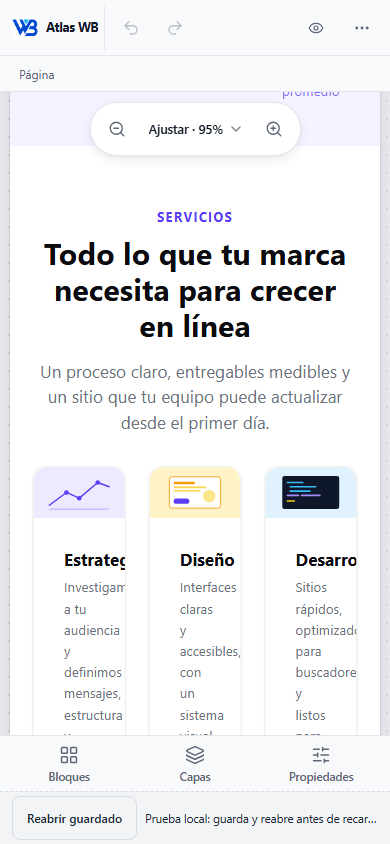
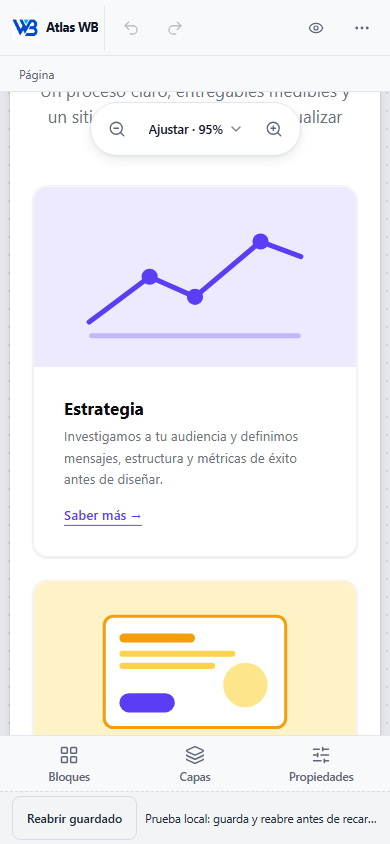
docs(release): record final 0.5.0 artifact after the columns correction
- New artifact 05874a77 from a9c927a with npm integrity, build and CSS
  hashes, fresh React 18/19 consumer verification and packaged browser
  results (including the ColumnsBlock matrix).
- Correction section: defect, container-query solution, section width
  fix, intentional markup change, tests and the documented limit.
- Updated playground mobile captures (390 light/dark, 320, preview).

diff --git a/docs/releases/ATLAS_0_5_0_RELEASE.md b/docs/releases/ATLAS_0_5_0_RELEASE.md
@@ -1,8 +1,8 @@
 # Atlas Web Builder 0.5.0 — preparación del release
 
-Fecha: 2026-11-13, actualizado tras la Fase 1.2. **APTO PARA REVISIÓN ESTÉTICA FINAL DE ATLAS 0.5.0**; después siguen pendientes las pruebas físicas y la autorización.
+Fecha: 2026-11-13, actualizado tras la corrección final de columnas. **APTO PARA COMENZAR LAS PRUEBAS FÍSICAS Y PARA AUTORIZAR LA PUBLICACIÓN** cuando esas pruebas se aprueben.
 
-> **Artefacto reemplazado.** El tarball anterior (SHA-256 `a23227ab…62201`, fuentes `b71383e`) quedó obsoleto con el rediseño de la [Fase 1.2](ATLAS_PHASE_1_UI_UX.md#fase-12--rediseño-visual-con-lucide-y-radix). Se movió a `.artifacts/releases/0.5.0/superseded-a23227ab/` y **no debe publicarse**. Su integridad no se reutiliza: los datos de abajo corresponden al artefacto nuevo.
+> **Artefactos reemplazados.** Los tarballs anteriores `a23227ab…` (fuentes `b71383e`) y `09303a7c…` (fuentes `869fca3`, Fase 1.2, sin la corrección de columnas) quedaron obsoletos y **no deben publicarse**. El primero quedó obsoleto con el rediseño de la [Fase 1.2](ATLAS_PHASE_1_UI_UX.md#fase-12--rediseño-visual-con-lucide-y-radix) y se conserva en `.artifacts/releases/0.5.0/superseded-a23227ab/`. El segundo fue reemplazado en el mismo nombre de archivo por el empaquetado final. No se reutiliza la integridad de ninguno: los datos de abajo corresponden al artefacto vigente.
 
 No implica autorización de publicación. Las pruebas físicas de Safari/iPhone y Chrome/Android siguen pendientes. No se ejecutaron `npm publish`, cambios de dist-tags, creación del tag v0.5.0 ni despliegues.
 
@@ -11,14 +11,14 @@ No implica autorización de publicación. Las pruebas físicas de Safari/iPhone 
 | Dato | Valor |
 | --- | --- |
 | Base de la Fase 1.2 | `797dee25eda293e9acf6ca53bd36c5753c0c9c06` |
-| Commit de fuentes del artefacto | `869fca38d7ca0da83837307d6652270a08f47325` |
+| Commit de fuentes del artefacto | `a9c927a45b383b7dda917de1b00328aab35c90f5` |
 | Rama | `main`, sin ramas ni worktrees nuevos |
 | Versión preparada | `@raulbellosom/atlas-web-builder@0.5.0` |
 | Tarball local | `.artifacts/releases/0.5.0/raulbellosom-atlas-web-builder-0.5.0.tgz` |
[1 lines of base64/hex data omitted]
-| npm shasum (SHA-1) | `eacb8ee4b8179c053b8cacdf74b880a5a44081af` |
-| npm integrity | `sha512-j58foNru2d8E1fN8NFkLIwffxFoVimQ4fsfrcDz2x/YqFztSzq1YjVIcyEL2v+1WgJFsGy0MUHd+F+S5/F1jxA==` |
-| Tamaño | 618581 bytes comprimidos, 2361988 bytes descomprimidos |
[1 lines of base64/hex data omitted]
+| npm shasum (SHA-1) | `22014ab9e65b9358d5c9ce57749fb46bd165d158` |
+| npm integrity | `sha512-wkwLOc5VWgrUKidY4TUtuHk+C+MtziCWSXTzsKHezmLAvzEIDx9+yk2eyEp8oypZ5dHyoubuqBd+H1egQqmDsQ==` |
+| Tamaño | 620001 bytes comprimidos, 2366509 bytes descomprimidos |
 
 El commit documental que contiene este informe sólo agrega informe y evidencia; no altera los archivos del paquete verificado. El tarball permanece local e ignorado por Git. Publicar ese archivo exacto después de autorizar, sin volver a empaquetar silenciosamente. Si se pierde, reproducirlo y comparar hashes antes de considerarlo aprobado.
 
@@ -52,7 +52,7 @@ Exports del manifiesto: import ESM, require CJS, `/styles` y `/package.json`. Se
 
 El renderer SSR produjo HTML idéntico byte a byte al de 0.4.0 para el fixture de compatibilidad. La reapertura conservó JSON, SEO, efectos y propiedades históricas desconocidas. Se fija el reloj únicamente en esa comparación porque ambos serializadores estampan `updatedAt`. No hay migración nueva de schema, catálogo o contrato de guardado.
 
[2 lines of base64/hex data omitted]
 
 Evidencia: [manifiesto npm pack](evidence/0.5.0/pack.json), [verificación y hashes por archivo](evidence/0.5.0/package-verification.json).
 
@@ -70,6 +70,7 @@ Para el artefacto nuevo se crearon otras dos aplicaciones privadas temporales fu
 | Editor empaquetado en Chromium y WebKit, React 18.3.1 | 1440, 1024, 768, 390 y 320 px aprobados (10 de 10) |
 | Editor empaquetado en Chromium y WebKit, React 19.3.0 | 1440, 1024, 768, 390 y 320 px aprobados (10 de 10) |
 | Menús, diálogo, popover y tooltip de Radix, capacidades restringidas, vista previa, iframe, embed y fullscreen de escritorio | Aprobados en ambos motores y versiones |
+| `ColumnsBlock` de 2, 3 y 4 columnas con `stackOnMobile` activado y desactivado: renderer público, canvas (marcos móvil, tableta y escritorio con cualquier ancho de ventana) y vista previa a 320, 390, 768 y 1440 px | Aprobados en ambos motores y versiones, sin overflow horizontal |
 | Playground por URL LAN | Edición, guardado, recarga, reapertura y recuperación aprobados en Chromium emulado |
 | React Doctor de los cambios de la Fase 1.2 | Sin avisos de código; el aviso de cadena de suministro de `dompurify` se corrigió |
 
@@ -108,6 +109,34 @@ node scripts/test-editor-ui.mjs
 
 Playwright se reutilizó de una instalación existente en modo lectura, sin modificar el Hub. En otro equipo, `ATLAS_BROWSER_TOOLS` debe señalar un entorno con Playwright y Chromium/WebKit instalados. El primer bloque es para reproducir y validar una preparación; **no reconstruir** el artefacto ya aprobado al publicarlo.
 
+## Corrección final: columnas en páginas estrechas
+
+**Defecto.** `ColumnsBlock` declaraba `stackOnMobile` (por defecto `true`) y lo mostraba en el inspector, pero no lo aplicaba. Las tarjetas de servicios del playground seguían en tres columnas en un teléfono y su contenido se recortaba (captura anterior `playground-390-light.png`).
+
+**Solución** (`3405eb0`):
+- **Contenedor:** el bloque se envuelve en `div.atlas-cols`, declarado como contenedor CSS (`container-type: inline-size`).
+- **Apilado:** con `atlas-cols--stack`, una container query apila la rejilla en una columna por debajo de 640 px del ancho de la **página representada**. Así funciona igual en el marco del canvas (por ejemplo, un teléfono simulado en una ventana de escritorio), en la vista previa y en el renderer público, sin depender del viewport global.
+- **Sin apilado:** con `stackOnMobile: false` se conserva la distribución configurada en cualquier ancho.
+- **Compatibilidad:**
+  - Los documentos históricos sin la propiedad heredan el valor declarado (`true`).
+  - No cambian esquema, campos, valores por defecto ni metadatos de los bloques.
+  - La plantilla de columnas sigue en el estilo inline, así que sin la hoja de estilos el bloque conserva su comportamiento anterior.
+
+**Hallazgo relacionado, corregido.** La nueva comprobación de overflow detectó que un `SectionBlock` a ancho completo desbordaba la página por su padding horizontal (32 px en cualquier ancho) cuando el anfitrión no aplica un reset `border-box`, como ocurre en el renderer público. La sección añade `box-sizing: border-box`.
+
+**HTML esperado.** Cada `ColumnsBlock` añade un `div` envolvente con clases, y cada `SectionBlock`, `box-sizing:border-box` en su estilo. Es un cambio deliberado y está documentado en la [guía de migración](0.5.0-migration.md). La prueba de hidratación sobre el HTML de servidor no produce discrepancias. La comparación byte a byte con 0.4.0 sigue aprobada porque su fixture no usa estos bloques; no se exige identidad para el markup que debía cambiar.
+
+**Pruebas:**
+- **Unitarias:** 2, 3 y 4 columnas con `stackOnMobile` activado, desactivado y ausente, distribución asimétrica, hidratación sin errores y ancho de sección. También se ejecutaron las pruebas dirigidas de SSR, bloques base, persistencia, editor, efectos y layouts: 51 de 51.
+- **Navegador:**
+  - `tests/browser/columnsChecks.mjs`, integrado en el runner, cubre la matriz completa en Chromium y WebKit, desde fuentes y desde ambos consumidores empaquetados. Verifica el número de columnas visibles, que textos, imágenes y botones de las tarjetas apiladas quepan en su columna y que no haya overflow horizontal de la página.
+  - `scripts/verify-playground-columns.mjs` verifica la landing en el canvas (dispositivos elegidos desde la interfaz) y en la vista previa a 320, 390, 768 y 1440 px en ambos motores.
+- **Guardado, reapertura y React 18/19:** se mantienen en el runner principal y en el verificador LAN.
+
+**Limitación documentada.** Con `stackOnMobile: false` y cuatro columnas en 320 px, cada columna mide unos 60 px y un botón puede sobresalir de su tarjeta. Es la distribución que el autor eligió explícitamente; la página no desborda.
+
+Capturas actualizadas: [playground a 390 px, claro](evidence/phase-1.2/playground-390-light.png), [playground a 320 px](evidence/phase-1.2/playground-320-light.png) y [vista previa a 390 px con las tarjetas apiladas](evidence/phase-1.2/playground-390-preview-columns.png).
+
 ## Playground en la red local
 
 ```powershell
@@ -140,7 +169,7 @@ Primero completar aceptación física, resolver defectos bloqueantes y obtener a
 
 ```powershell
 $Artifact = (Resolve-Path .artifacts/releases/0.5.0/raulbellosom-atlas-web-builder-0.5.0.tgz).Path
[2 lines of base64/hex data omitted]
 if ((Get-FileHash $Artifact -Algorithm SHA256).Hash.ToLowerInvariant() -ne $Expected) { throw 'Artefacto distinto: detener' }
 npm whoami --registry https://registry.npmjs.org/
 npm access list packages raulbellosom --json --registry https://registry.npmjs.org/
@@ -174,7 +203,7 @@ La adopción exacta 0.5.0 y lockfiles de ERP/Hub constituye otro corte autorizad
 
 ## Rollback y estados independientes
 
-- **Atlas/GitHub:** preparación y documentación en `main`, push normal de los cortes validados, sin force. El SHA de fuentes y paquete es `869fca3…`; el commit documental de la Fase 1.2 registra la entrega. La respuesta de cierre confirma el SHA remoto final después del push.
+- **Atlas/GitHub:** preparación y documentación en `main`, push normal de los cortes validados, sin force. El SHA de fuentes y paquete es `a9c927a…`; el commit documental de la corrección final registra la entrega. La respuesta de cierre confirma el SHA remoto final después del push.
[1 lines of base64/hex data omitted]
 - **ERP:** sin cambios de esta tarea. Pin desktop 0.4.0; HEAD local observado `34ca30fc4390dd40f7d22338c2529571134f4bdb`. Se preservó el archivo ajeno no rastreado `packages/module-compiler/src/__tests__/entity-list-integration.test.js`. El bloqueo de privacidad documentado anteriormente sigue fuera de esta preparación; no se reejecutó ni alteró el gate.
 - **Hub:** sin cambios de esta tarea. Pin 0.4.0; HEAD observado `ff6f7a5f74ef76c928e0d22f7e763fb7b8b9a051`, árbol limpio. Se usaron únicamente sus herramientas de navegador en modo lectura.
@@ -190,11 +219,10 @@ El paquete 0.5.0 publicado y los tags de versión no se sobrescriben ni eliminan
 
 ## Pendientes reales
 
-1. Revisión estética final del rediseño de la [Fase 1.2](ATLAS_PHASE_1_UI_UX.md#fase-12--rediseño-visual-con-lucide-y-radix), con sus capturas.
-2. Pruebas físicas de iPhone/Safari y Android/Chrome, incluido teclado virtual real y conectividad desde el teléfono. Los recorridos emulados no las completan.
-3. Revisión de esos resultados y autorización independiente para publicar npm y crear el tag definitivo.
-4. Verificación posterior del paquete del registro y futura adopción de consumidores bajo sus controles, antes de considerar despliegues.
+1. Pruebas físicas de iPhone/Safari y Android/Chrome, incluido teclado virtual real y conectividad desde el teléfono. Los recorridos emulados no las completan.
+2. Revisión de esos resultados y autorización independiente para publicar npm y crear el tag definitivo.
+3. Verificación posterior del paquete del registro y futura adopción de consumidores bajo sus controles, antes de considerar despliegues.
 
 No se encontró ningún bloqueo técnico para empezar las pruebas físicas. Hay un hallazgo previo no bloqueante, documentado en la Fase 1.2: en el canvas de edición, `GridBlock` se ve en una sola columna. No se inició la Fase 2.
 
-**APTO PARA REVISIÓN ESTÉTICA FINAL DE ATLAS 0.5.0**.
+**APTO PARA COMENZAR LAS PRUEBAS FÍSICAS Y PARA AUTORIZAR LA PUBLICACIÓN** cuando esas pruebas se aprueben. La estética de la Fase 1.2 ya está aprobada.

diff --git a/docs/releases/ATLAS_PHASE_1_UI_UX.md b/docs/releases/ATLAS_PHASE_1_UI_UX.md
@@ -448,7 +448,9 @@ Todas las capturas se tomaron después de terminar las animaciones y transicione
 | Landing y banco de pruebas del playground | `bf97db3` |
 | Documentos empaquetados de 0.5.0 | `61037cd` |
 | Tooltip tras devolver el foco un menú | `a3a42fd` |
-| Rangos con parche de `dompurify` y `nanoid` | `869fca3` (fuente del tarball) |
+| Rangos con parche de `dompurify` y `nanoid` | `869fca3` |
+
+**Corrección posterior.** `ColumnsBlock` aplica ya `stackOnMobile` mediante container queries, y `SectionBlock` incluye su padding en el ancho (`3405eb0`). Las capturas móviles del playground se actualizaron. El artefacto vigente es el de `a9c927a`; detalles y pruebas en el [informe del release](ATLAS_0_5_0_RELEASE.md#corrección-final-columnas-en-páginas-estrechas).
 
 ### Pendientes
 
